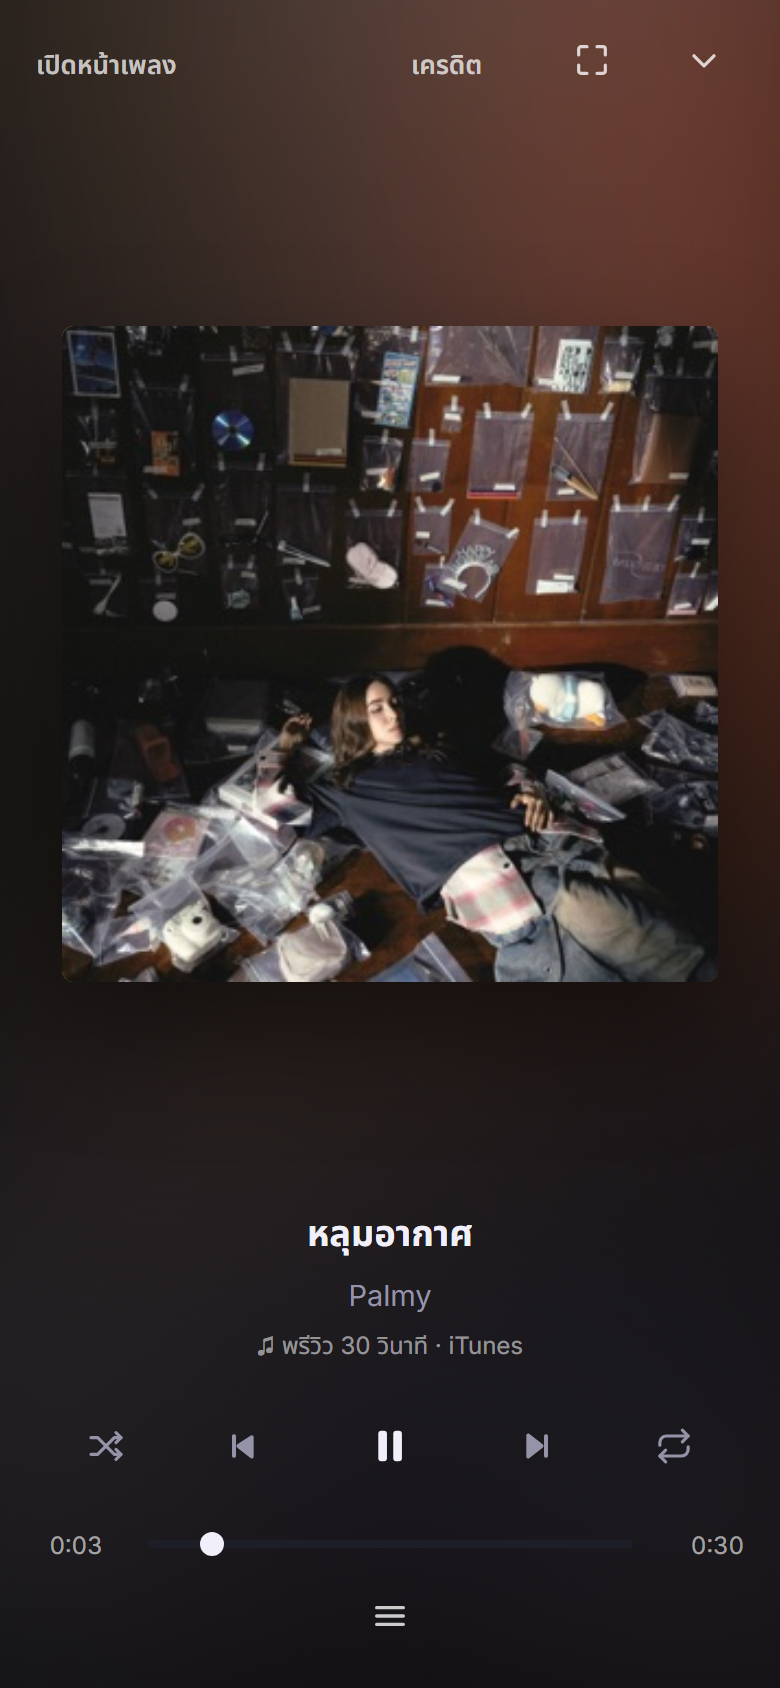
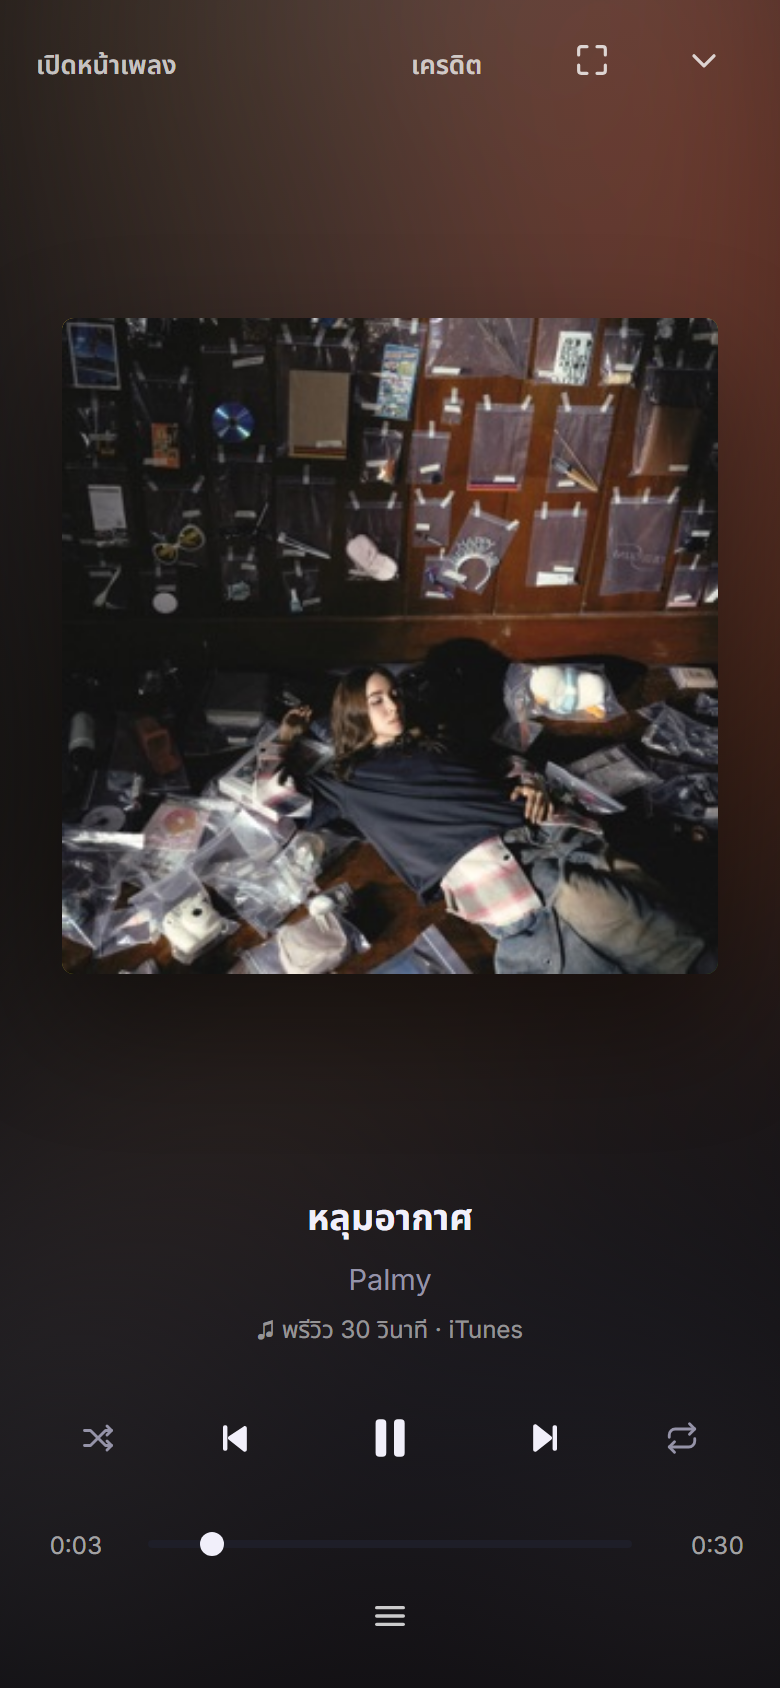
ui(player): prev/play/next are larger and brighter than shuffle/repeat

diff --git a/app/templates/base.html b/app/templates/base.html
@@ -135,18 +135,18 @@
           <path d="M18 4l3 3-3 3"/><path d="M18 14l3 3-3 3"/>
         </svg>
       </button>
-      <button type="button" class="ctl" id="btn-prev" title="ก่อนหน้า" disabled>
+      <button type="button" class="ctl ctl-main" id="btn-prev" title="ก่อนหน้า" disabled>
         <svg viewBox="0 0 24 24" fill="currentColor" aria-hidden="true">
           <rect x="6" y="5" width="2.4" height="14" rx="1"/>
           <path d="M19 5.6v12.8c0 .9-1 1.4-1.7.9L9.2 13c-.7-.5-.7-1.5 0-2l8.1-5.3c.7-.5 1.7 0 1.7.9z"/>
         </svg>
       </button>
-      <button type="button" class="ctl ctl-play" id="btn-play" title="เล่น/หยุด" disabled>
+      <button type="button" class="ctl ctl-play ctl-main" id="btn-play" title="เล่น/หยุด" disabled>
         <svg viewBox="0 0 24 24" fill="currentColor" aria-hidden="true">
           <polygon points="5.3,5 18.7,12 5.3,19"/>
         </svg>
       </button>
-      <button type="button" class="ctl" id="btn-next" title="ถัดไป" disabled>
+      <button type="button" class="ctl ctl-main" id="btn-next" title="ถัดไป" disabled>
         <svg viewBox="0 0 24 24" fill="currentColor" aria-hidden="true">
           <path d="M5 5.6v12.8c0 .9 1 1.4 1.7.9L14.8 13c.7-.5.7-1.5 0-2L6.7 4.7c-.7-.5-1.7 0-1.7.9z"/>
           <rect x="15.6" y="5" width="2.4" height="14" rx="1"/>
@@ -224,18 +224,18 @@
             <path d="M18 4l3 3-3 3"/><path d="M18 14l3 3-3 3"/>
           </svg>
         </button>
-        <button type="button" class="ctl" id="npf-prev" title="ก่อนหน้า">
+        <button type="button" class="ctl ctl-main" id="npf-prev" title="ก่อนหน้า">
           <svg viewBox="0 0 24 24" fill="currentColor" aria-hidden="true">
             <rect x="6" y="5" width="2.4" height="14" rx="1"/>
             <path d="M19 5.6v12.8c0 .9-1 1.4-1.7.9L9.2 13c-.7-.5-.7-1.5 0-2l8.1-5.3c.7-.5 1.7 0 1.7.9z"/>
           </svg>
         </button>
-        <button type="button" class="ctl ctl-play big" id="npf-play" title="เล่น/หยุด">
+        <button type="button" class="ctl ctl-play ctl-main big" id="npf-play" title="เล่น/หยุด">
           <svg viewBox="0 0 24 24" fill="currentColor" aria-hidden="true">
             <polygon points="5.3,5 18.7,12 5.3,19"/>
           </svg>
         </button>
-        <button type="button" class="ctl" id="npf-next" title="ถัดไป">
+        <button type="button" class="ctl ctl-main" id="npf-next" title="ถัดไป">
           <svg viewBox="0 0 24 24" fill="currentColor" aria-hidden="true">
             <path d="M5 5.6v12.8c0 .9 1 1.4 1.7.9L14.8 13c.7-.5.7-1.5 0-2L6.7 4.7c-.7-.5-1.7 0-1.7.9z"/>
             <rect x="15.6" y="5" width="2.4" height="14" rx="1"/>

diff --git a/app/static/css/player.css b/app/static/css/player.css
@@ -63,12 +63,16 @@
   transition: color .15s, transform .12s;
 }
 .ctl:hover:not(:disabled) { color: var(--text); }
+
+/* prev / play / next stand out: brighter and bigger than shuffle/repeat */
+.ctl-main { color: var(--text); }
+.ctl-main:hover:not(:disabled) { color: #fff; }
 .ctl:disabled { opacity: .35; cursor: not-allowed; }
 .ctl-play {
   display: grid;
   place-items: center;
-  width: 42px;
-  height: 42px;
+  width: 48px;
+  height: 48px;
   background: transparent;      /* ไอคอนล้วน เหมือนปุ่มอื่น */
   color: var(--text);
   font-size: 14px;
@@ -379,7 +383,8 @@ input[type="range"]:disabled { opacity: .4; cursor: default; }
 .np-full-center { display: flex; flex-direction: column; align-items: center; gap: 12px; width: 100%; }
 .np-full .controls { gap: 24px; }
 .np-full .ctl { font-size: 17px; }
-.ctl-play.big { width: 56px; height: 56px; font-size: 17px; }
+.np-full .ctl-main { color: var(--text); }
+.ctl-play.big { width: 64px; height: 64px; font-size: 17px; }
 
 /* full-width progress bar — times pinned to the left/right edges like Tidal */
 .np-full-progress {

diff --git a/app/static/css/pages.css b/app/static/css/pages.css
@@ -603,9 +603,10 @@
    as blue emoji squares, so every control is an SVG now)
    ===================================================================== */
 .ctl { position: relative; }
-.ctl svg { width: 20px; height: 20px; display: block; }
-.ctl-play svg { width: 20px; height: 20px; }
-.ctl-play.big svg { width: 26px; height: 26px; }
+.ctl svg { width: 18px; height: 18px; display: block; }
+.ctl-main svg { width: 22px; height: 22px; }
+.ctl-play svg { width: 24px; height: 24px; }
+.ctl-play.big svg { width: 32px; height: 32px; }
 .vol-ico { display: inline-grid; place-items: center; }
 .vol-ico svg { width: 18px; height: 18px; display: block; }
 

diff --git a/app/static/css/mobile.css b/app/static/css/mobile.css
@@ -73,7 +73,7 @@
     display: inline-grid;
     place-items: center;
   }
-  .ctl-play { width: 54px; height: 54px; font-size: 17px; }
+  .ctl-play { width: 60px; height: 60px; font-size: 17px; }
   .progress { gap: 8px; }
   .progress .time { font-size: 11px; }
   .playbadge { display: none; }
